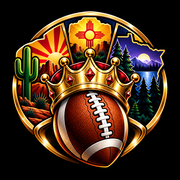
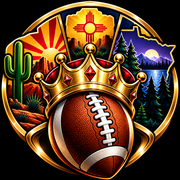
Changes

diff --git a/src/components/fantasy/AppShell.tsx b/src/components/fantasy/AppShell.tsx
@@ -196,7 +196,7 @@ function Shell({ children }: { children: ReactNode }) {
           {/* Top row: brand on the left, profile on the right */}
         <div className="mx-auto flex max-w-[1400px] items-center justify-between gap-3 px-4 py-2.5 sm:py-3">
           <Link to="/" className="flex min-w-0 items-center gap-3">
-            <img src={leagueCrest} alt="La Familia crest" width={44} height={44} className="h-11 w-11 shrink-0" />
+            <img src={leagueCrest} alt="La Familia crest" width={60} height={60} className="h-[60px] w-[60px] shrink-0" />
             <span className="truncate font-display text-xl font-bold tracking-tight sm:text-2xl">
               La Familia
             </span>
